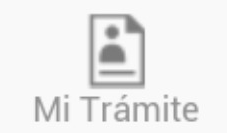
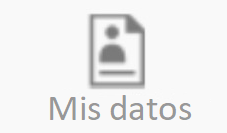
User data

Changed region(s): [[0.1542, 0.6917, 0.8943, 0.9323]]

diff --git a/Conecta/src/app/body-main/body-main.component.html b/Conecta/src/app/body-main/body-main.component.html
@@ -5,16 +5,18 @@
     image="logo.png"></app-novedad>
   <app-novedad title="Nuevos servicios web para trabajadores" text="Para continuar con el proceso de mejora de gestión, el Banco de Previsión Social ofrecerá tres nuevos servicios en línea para usuarios registrados a partir de julio de 2017."
     image="logo.png"></app-novedad>
-  <app-novedad title="La hackaton del BPS genera revolucionara idea" text="Participantes de la hackaton 2017 de Seguridad social generan revolucionaria app para notificar a las personas sobre
+  <app-novedad title="La hackaton del BPS genera revolucionaria idea" text="Participantes de la hackaton 2017 de Seguridad social generan revolucionaria app para notificar a las personas sobre
                      los beneficios del bps" image="logo.png"></app-novedad>
 </ul>
 
 
 <ul *ngIf="(usuario == 'maria')">
-    <app-novedad title="Aumento por Consejo de Salario" text="Queremos notificarles que salió el aumento del consejo de salario para domésticas"
-      image="logo.png"></app-novedad>
-    <app-novedad title="Prima por presentismo" text="En la fecha de ayer, quedó determinada la prima por presentismo en un 0.4%" image="logo.png"></app-novedad>
-    <app-novedad title="Fondo social trabajo doméstico" text="Sabías que existe un fondo social para trabajadoras domésticas?" image="logo.png"></app-novedad>
-    <app-novedad title="La hackaton del BPS genera revolucionara idea" text="Participantes de la hackaton 2017 de Seguridad social generan revolucionaria app para notificar a las personas sobre
+  <app-novedad title="Aumento por Consejo de Salario" text="Queremos notificarles que salió el aumento del consejo de salario para domésticas"
+    image="logo.png"></app-novedad>
+  <app-novedad title="Prima por presentismo" text="En la fecha de ayer, quedó determinada la prima por presentismo en un 0.4%"
+    image="logo.png"></app-novedad>
+  <app-novedad title="Fondo social trabajo doméstico" text="Sabías que existe un fondo social para trabajadoras domésticas?"
+    image="logo.png"></app-novedad>
+  <app-novedad title="La hackaton del BPS genera revolucionaria idea" text="Participantes de la hackaton 2017 de Seguridad social generan revolucionaria app para notificar a las personas sobre
     los beneficios del bps" image="logo.png"></app-novedad>
-  </ul>
+</ul>

diff --git a/Conecta/src/app/form/form.component.html b/Conecta/src/app/form/form.component.html
@@ -1,0 +1,45 @@
+<div style="margin-top:70px;">
+  <form style="height: 500px;">
+    <table style="margin: 90px 10px 0px 71px; color:white;font-weight:bold; text-align:right;">
+      <tr>
+        <td>Nombre completo</td>
+        <td>
+          <input type="text" [(ngModel)]="user.name" name="name">
+        </td>
+      </tr>
+      <tr>
+        <td>Email</td>
+        <td>
+          <input type="email" [(ngModel)]="user.mail" name="mail">
+        </td>
+      </tr>
+      <tr>
+        <td>Teléfono</td>
+        <td>
+          <input [(ngModel)]="user.phone" name="phone">
+        </td>
+      </tr>
+      <tr>
+        <td>Datos</td>
+        <td style="display: table;">
+          <img src="/assets/images/like.png">
+          <small>Datos actualizados</small>
+        </td>
+      </tr>
+      <tr>
+        <td>Deudas</td>
+        <td style="display: table;">
+          <img src="/assets/images/money.png">
+          <small>Sin deudas</small>
+        </td>
+      </tr>
+      <tr>
+        <td>
+        </td>
+        <td>
+          <button type="button" (click)="goBackHandler()">Guardar</button>
+        </td>
+      </tr>
+    </table>
+  </form>
+</div>

diff --git a/Conecta/src/app/app.module.ts b/Conecta/src/app/app.module.ts
@@ -12,6 +12,7 @@ import { LoginComponent } from './login/login.component';
 import { NovedadComponent } from './novedad/novedad.component';
 import { NotificationComponent } from './notification/notification.component';
 import { NotificationNumberComponent } from './notification-number/notification-number.component';
+import { FormComponent } from './form/form.component';
 
 
 @NgModule({
@@ -25,7 +26,8 @@ import { NotificationNumberComponent } from './notification-number/notification-
     LoginComponent,
     NovedadComponent,
     NotificationComponent,
-    NotificationNumberComponent
+    NotificationNumberComponent,
+    FormComponent
   ],
   imports: [
     BrowserModule,

diff --git a/Conecta/src/app/form/form.component.spec.ts b/Conecta/src/app/form/form.component.spec.ts
@@ -1,0 +1,25 @@
+import { async, ComponentFixture, TestBed } from '@angular/core/testing';
+
+import { FormComponent } from './form.component';
+
+describe('FormComponent', () => {
+  let component: FormComponent;
+  let fixture: ComponentFixture<FormComponent>;
+
+  beforeEach(async(() => {
+    TestBed.configureTestingModule({
+      declarations: [ FormComponent ]
+    })
+    .compileComponents();
+  }));
+
+  beforeEach(() => {
+    fixture = TestBed.createComponent(FormComponent);
+    component = fixture.componentInstance;
+    fixture.detectChanges();
+  });
+
+  it('should create', () => {
+    expect(component).toBeTruthy();
+  });
+});

diff --git a/Conecta/src/app/app.component.html b/Conecta/src/app/app.component.html
@@ -1,7 +1,8 @@
 <app-login *ngIf="!isLoggedIn" (onLoggedIn)="onLoggedIn($event)"></app-login>
 <app-header [amountNotification]="amountNotification" class="header" *ngIf="isLoggedIn" (onLoggedOut)="onLoggedOut($event)"></app-header>
-<app-body *ngIf="isLoggedIn"></app-body>
-<app-footer *ngIf="isLoggedIn" class="footer"></app-footer>
+<app-body *ngIf="isLoggedIn && !showForm"></app-body>
+<app-form (goBack)="showUserHandler(!$event)" *ngIf="isLoggedIn && showForm"></app-form>
+<app-footer (showUser)="showUserHandler($event)" *ngIf="isLoggedIn" class="footer"></app-footer>
 <div style="background-color: #0073c6; height:100%">
 
 </div>

diff --git a/Conecta/src/app/form/form.component.ts b/Conecta/src/app/form/form.component.ts
@@ -1,0 +1,26 @@
+import { Component, OnInit, Input, Output, EventEmitter } from '@angular/core';
+
+@Component({
+  selector: 'app-form',
+  templateUrl: './form.component.html',
+  styleUrls: ['./form.component.css']
+})
+export class FormComponent implements OnInit {
+  usuario = ""
+  user;
+  @Output() goBack = new EventEmitter();
+  constructor() { }
+
+  ngOnInit() {
+    this.usuario = localStorage.getItem("usuario");
+    this.user = {
+      name: '' + this.usuario,
+      mail: '' + this.usuario + '@gmail.com',
+      phone: '422528466'
+    }
+  }
+
+  goBackHandler() {
+    this.goBack.emit(true);
+  }
+}

diff --git a/Conecta/src/app/footer/footer.component.ts b/Conecta/src/app/footer/footer.component.ts
@@ -1,4 +1,4 @@
-import { Component, OnInit } from '@angular/core';
+import { Component, OnInit, EventEmitter, Output } from '@angular/core';
 
 @Component({
   selector: 'app-footer',
@@ -8,6 +8,7 @@ import { Component, OnInit } from '@angular/core';
 export class FooterComponent implements OnInit {
   state = false;
   usuario = '';
+  @Output() showUser = new EventEmitter();
   constructor() { }
 
   ngOnInit() {
@@ -16,6 +17,10 @@ export class FooterComponent implements OnInit {
 
   stateHandler(newState) {
     this.state = newState;
+  }
+
+  showUserHandler() {
+    this.showUser.emit(true)
   }
 
 }

diff --git a/Conecta/src/app/footer/footer.component.html b/Conecta/src/app/footer/footer.component.html
@@ -1,6 +1,6 @@
 <img src="/assets/images/footer-inicio.png" alt="Inicio">
 <img src="/assets/images/footer-agenda.png" (click)="stateHandler('home')" alt="Agenda">
-<img src="/assets/images/footer-tramite.png" alt="Trámite">
+<img src="/assets/images/footer-tramite.png" alt="Trámite" (click)="showUserHandler()">
 <img src="/assets/images/footer-contacto.png" alt="Contacto">
 <img class="showHome" (click)="stateHandler('notification')" src="/assets/images/phone-home.png" *ngIf="state === 'home' || state === 'notification'"
   alt="Home">

diff --git a/Conecta/src/app/app.component.ts b/Conecta/src/app/app.component.ts
@@ -10,6 +10,7 @@ export class AppComponent {
   isLoggedIn = false;
   amountNotification = 1;
   usuario = '';
+  showForm = false;
 
   onLoggedIn(value) {
     this.isLoggedIn = value;
@@ -17,6 +18,10 @@ export class AppComponent {
 
   onLoggedOut(value) {
     this.isLoggedIn = value
-  } 
+  }
+
+  showUserHandler(showUser) {
+    this.showForm = showUser;
+  }
 
 }

diff --git a/Conecta/src/app/form/form.component.css b/Conecta/src/app/form/form.component.css
@@ -1,0 +1,10 @@
+img {
+  height: 30px;
+  margin-left: 5px;
+}
+
+small {
+  color:green;
+  vertical-align: super;
+  margin-left: 10px;
+}
